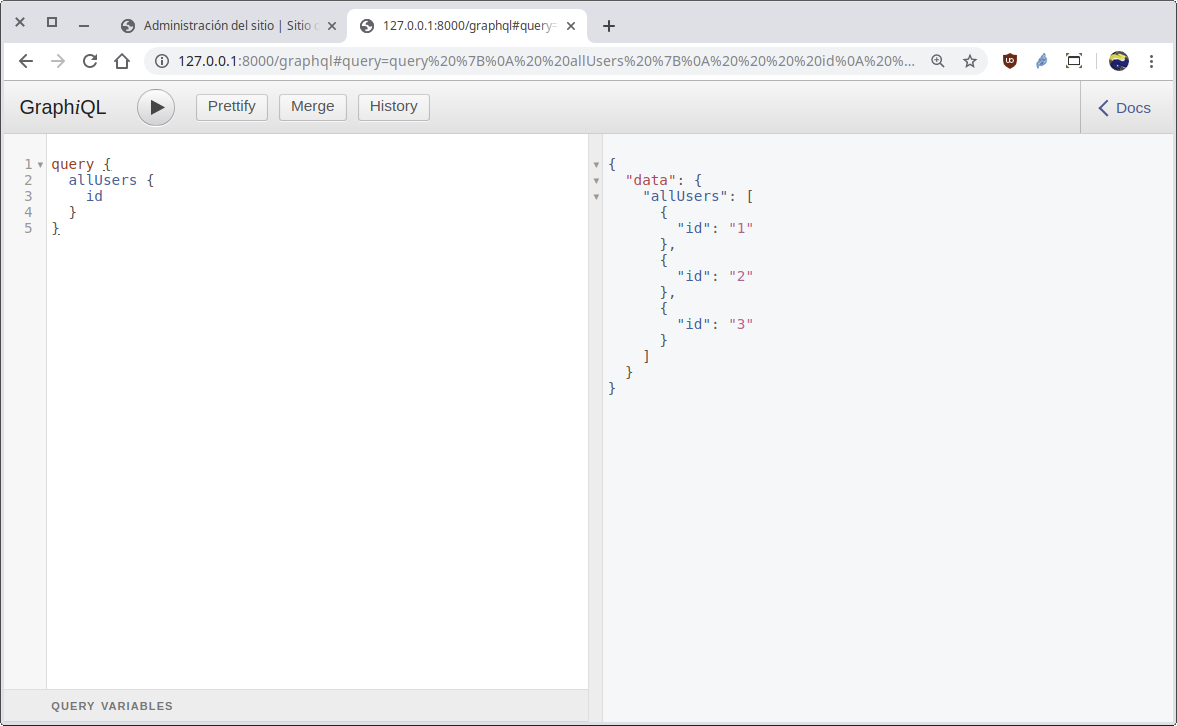
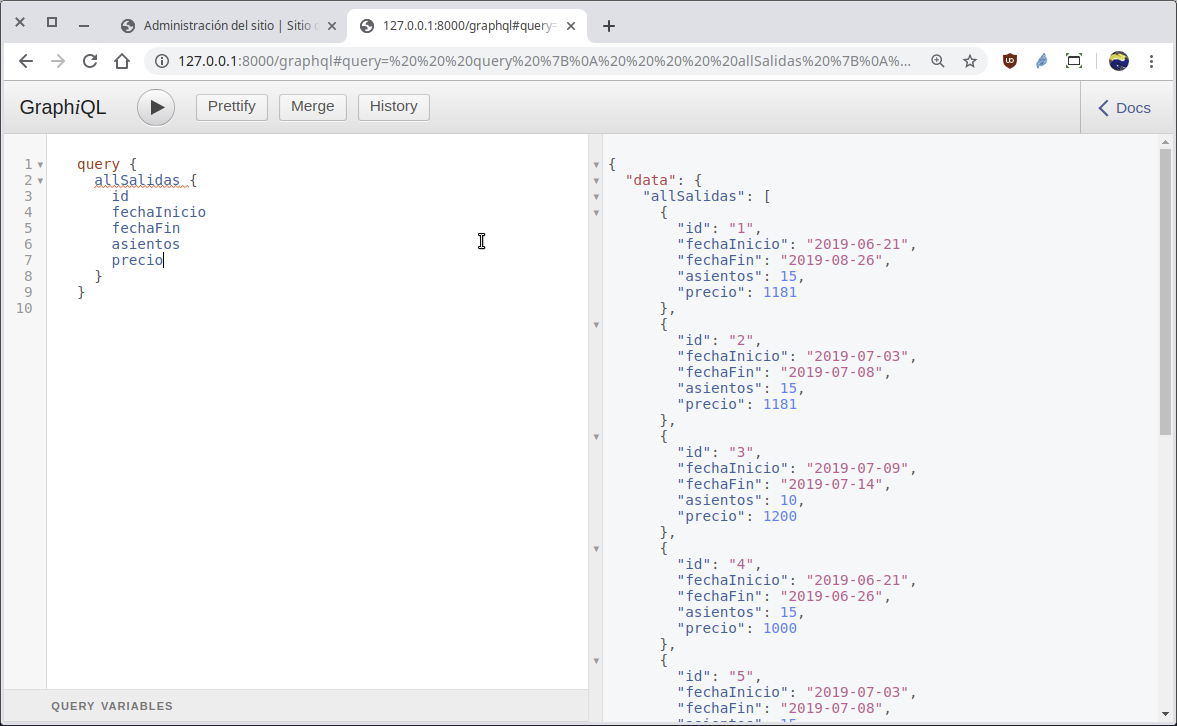
Se agrega descripción y archivos para Reto-02 en Sesion-07

diff --git a/Sesion-07/Reto-02/Bedutravels/tours/schema.py b/Sesion-07/Reto-02/Bedutravels/tours/schema.py
@@ -16,6 +16,18 @@ class ZonaType(DjangoObjectType):
         # Se relaciona con el origen de la data en models.Zona
         model = Zona
 
+class TourType(DjangoObjectType):
+    """ Tipo de dato para manejar el tipo Tour """
+    class Meta:
+        # Se relaciona con el origen de la data en models.Tour
+        model = Tour
+
+class SalidaType(DjangoObjectType):
+    """ Tipo de dato para manejar el tipo Salida """
+    class Meta:
+        # Se relaciona con el origen de la data en models.Salida
+        model = Salida
+
 
 class Query(graphene.ObjectType):
     """ Definición de las respuestas a las consultas posibles """
@@ -23,6 +35,8 @@ class Query(graphene.ObjectType):
     # Se definen los posibles campos en las consultas
     all_users = graphene.List(UserType)  # allUsers
     all_zonas = graphene.List(ZonaType)  # allZonas
+    all_tours = graphene.List(TourType)  # allTours
+    all_salidas = graphene.List(SalidaType)  # allSalidas
 
     # Se define las respuestas para cada campo definido
     def resolve_all_users(self, info, **kwargs):
@@ -32,6 +46,14 @@ class Query(graphene.ObjectType):
     def resolve_all_zonas(self, info, **kwargs):
         # Responde con la lista de todos registros
         return Zona.objects.all()
+
+    def resolve_all_tours(self, info, **kwargs):
+        # Responde con la lista de todos registros
+        return Tour.objects.all()
+
+    def resolve_all_salidas(self, info, **kwargs):
+        # Responde con la lista de todos registros
+        return Salida.objects.all()
 
 # Se crea un esquema que hace uso de la clase Query
 schema = graphene.Schema(query=Query)

diff --git a/Sesion-07/Reto-02/Bedutravels/tours/models.py b/Sesion-07/Reto-02/Bedutravels/tours/models.py
@@ -38,9 +38,9 @@ class Tour(models.Model):
     img = models.CharField(max_length=256, null=True, blank=True)
     pais = models.CharField(max_length=45)
     zonaSalida = models.ForeignKey(Zona, on_delete=models.SET_NULL, null=True,
-        blank=True, related_name="Tours_zonaSalida")
+        blank=True, related_name="tours_salida")
     zonaLlegada = models.ForeignKey(Zona, on_delete=models.SET_NULL, null=True,
-        blank=True, related_name="Tours_zonaLlegada")
+        blank=True, related_name="tours_llegada")
 
     def __str__(self):
         return "{}".format(self.nombre)
@@ -60,7 +60,7 @@ class Salida(models.Model):
     fechaFin = models.DateField()
     asientos = models.PositiveSmallIntegerField(null=True, blank=True)
     precio = models.DecimalField(max_digits=10, decimal_places=2)
-    tour = models.ForeignKey(Tour, on_delete=models.CASCADE)
+    tour = models.ForeignKey(Tour, related_name="salidas", on_delete=models.CASCADE)
 
     def __str__(self):
         return "{} ({}, {})".format(self.tour, self.fechaInicio, self.fechaFin)

diff --git a/Sesion-07/Reto-02/Readme.md b/Sesion-07/Reto-02/Readme.md
@@ -1,151 +1,205 @@
-`Fullstack con Python` > [`Backend con Python`](../../Readme.md) > [`Sesión 07`](../Readme.md) > Ejemplo-02
+[`Backend con Python`](../../Readme.md) > [`Sesión 07`](../Readme.md) > Reto-02
 ## Definiendo esquemas para crear un API GraphQL y realizar consultas de datos
 
 ### OBJETIVOS
-- Configurar __Django Graphene__
-- Definir la url única para el acceso a todo el __API GraphQL__
-- Integrar __Django Graphene__ en el proyecto
-- Definir el esquema para las consultas con __GraphQL__
-- Realizar operaciones de consulta vía __API GraphQL__
+- Definir el esquemas para modelos de Django
+- Realizar operaciones de consulta vía __API GraphQL__ a modelos simples
+- Realizar operaciones de consulta a modelos con relaciones
 
 ### REQUISITOS
 1. Actualizar repositorio
-1. Usar la carpeta de trabajo `Sesion-06/Ejemplo-02`
+1. Usar la carpeta de trabajo `Sesion-07/Reto-02`
 1. Activar el entorno virtual __Bedutravels__
 1. Diagrama de entidad-relación del proyecto Bedutravels
    ![Diagrama entidad-relación](assets/bedutravels-modelo-er.png)
-1. Carpeta de proyecto `Ejemplo-02/Bedutravels/` con los siguientes datos de acceso al admin de Django :
+1. Carpeta de proyecto `Reto-02/Bedutravels/` con los siguientes datos de acceso al admin de Django :
    - Usuario: bedutravels
    - Clave: bedutravels
 
 ### DESARROLLO
-1. Agregando Django Graphene a la configuración en el archivo `settings.py` como una aplicación adicional:
+1. Se crea la ruta para la url `/graphql` modificando el archivo `Bedutravels/tours/urls.py`.
 
-   ```python
-   INSTALLED_APPS = [
-       'django.contrib.admin',
-       'django.contrib.auth',
-       'django.contrib.contenttypes',
-       'django.contrib.sessions',
-       'django.contrib.messages',
-       'django.contrib.staticfiles',
-       'tours',
-       'graphene_django',
-   ]
-   ```
+   Debido a que GraphQL sólo necesita un punto de entrada, no es necesario estar creando o adicionando más rutas, así que puedes continuar.
    ***
 
-1. Se crea la ruta para la url `/graphql` modificando el archivo `Bedutravels/tours/urls.py`:
+1. Crear el esquema (schema) en el archivo `Bedutravels/tours/schema.py` para atender las consultas que obtiene la lista de todos los registros de los modelos __Tour__ y __Salidas__
+
+   Se necesitan los tipos __TourType__ y __SalidasType__:
 
    ```python
-   from django.urls import path
-   from graphene_django.views import GraphQLView
-
-   urlpatterns = [
-       path('graphql', GraphQLView.as_view(graphiql=True)),
-   ]
-   ```
-   ***
-
-1. Se crea el esquema (schema) en el archivo `Bedutravels/tours/schema.py` para atender las consultas que obtiene la lista de todos los registros de los modelos __User__ y __Zona__
-
-   ```python
-   import graphene
-
-   from graphene_django.types import DjangoObjectType
-   from .models import User, Zona, Tour, Opinion, Salida
-   ```
-   Cada campo que será usando en la consulta, se define mediante un tipo de dato por medio de una clase que hereda de __DjangoObjectType__ y además es la encargada de crear el vínculo con el modelo correspondiente.
-
-   A continuación se muestran la definición de los tipos __UserType__ y __ZonaType__.
-
-   ```python
-   class UserType(DjangoObjectType):
-       """ Tipo de dato para manejar el tipo User """
+   class TourType(DjangoObjectType):
+       """ Tipo de dato para manejar el tipo Tour """
        class Meta:
-           # Se relaciona con el origen de la data en models.User
-           model = User
+           # Se relaciona con el origen de la data en models.Tour
+           model = Tour
 
-   class ZonaType(DjangoObjectType):
-       """ Tipo de dato para manejar el tipo Zona """
+   class SalidaType(DjangoObjectType):
+       """ Tipo de dato para manejar el tipo Salida """
        class Meta:
-           # Se relaciona con el origen de la data en models.Zona
-           model = Zona
-   ```
-   Observar como en cada clase se vincula el modelo correspondiente.
-
-   Después se crea la clase que atenderá las consultas realizadas desde el API:
-
-   ```python
-   class Query(graphene.ObjectType):
-       """ Definición de las respuestas a las consultas posibles """
-
-       # Se definen los posibles campos en las consultas
-       all_users = graphene.List(UserType)  # allUsers
-       all_zonas = graphene.List(ZonaType)  # allZonas
-
-       # Se define las respuestas para cada campo definido
-       def resolve_all_users(self, info, **kwargs):
-           # Responde con la lista de todos registros
-           return User.objects.all()
-
-       def resolve_all_zonas(self, info, **kwargs):
-           # Responde con la lista de todos registros
-           return Zona.objects.all()
+           # Se relaciona con el origen de la data en models.Salida
+           model = Salida
    ```
 
-   Finalmente se crea la variable `schema` que define el esquema de los posibles campos y consultas.
+   Después se agregan las variables para cada tipo de campo nuevo y la función que atenderá las consultas:
 
    ```python
-   # Se crea un esquema que hace uso de la clase Query
-   schema = graphene.Schema(query=Query)   
+   # Se definen los posibles campos en las consultas
+   [...]
+   all_tours = graphene.List(TourType)  # allTours
+   all_salidas = graphene.List(SalidaType)  # allSalidas
+   [...]
+   def resolve_all_tours(self, info, **kwargs):
+       # Responde con la lista de todos registros
+       return Tour.objects.all()
+
+   def resolve_all_salidas(self, info, **kwargs):
+       # Responde con la lista de todos registros
+       return Salida.objects.all()
    ```
    ***
 
-1. Acceso y uso de la __API__ `/graphql`
+1. Acceso y uso de la __API__ `/graphql` a sólo una tabla
 
    __Para tener acceso al API abrir la siguiente url:__
 
    http://localhost:8000/graphql
 
-   Se deberá de observar algo similar a lo siguiente:
+   __Obteniendo la lista de todos los registros del modelo Tour:__
 
-   ![Bedutravels API GraphQL](assets/api-graphql-01.png)
-
-   __Obteniendo la lista de todos los registros del modelo User:__
-
-   Escribir la siquiente consulta (query) en formato __GraphQL__ en la región izquierda remplazando cualquier contenido existente:
+   Escribir la siquiente consulta en formato __GraphQL__ y ejecutar la consulta:
 
    ```json
    query {
-     allUsers {
+     allTours {
        id
+       nombre
+       operador
+       tipoDeTour
+       descripcion
+       img
+       pais
      }
    }   
    ```
-   luego dar click en el botón de reproducir (play), el resultado se mostrará en la región derecha similar al siguiente:
+   el resultado deberá ser similar al siguiente:
 
-   ![allUser id](assets/api-graphql-02.png)
-   Se puede observar como el resultado incluye los tres registros en el modelo __User__, pero sólo se ha obtenido el __id__, esto es porque en la consulta así se ha solicitado, entonces ahora se solicitará también el __nombre__ y el __genero__, se da click en reproducir (play) y se obtiene algo similar a:
+   ![allUser id](assets/api-graphql-01.png)
 
-   ![allUser id, nombre, genero](assets/api-graphql-03.png)
-
-   __Ahora también obteniendo la lista de todos los registros del modelo Zona con la siguiente consulta:__
+   __Obteniendo la lista de todos los registros del modelo Salida:__
 
    ```json
    query {
-     allUsers {
+     allSalidas {
        id
-       nombre
-       genero
+       fechaInicio
+       fechaFin
+       asientos
+       precio
      }
-     allZonas {
-       id
-       nombre
-     }
-   }
+   }   
    ```
    El resultado será similar a:
 
-   ![allUser, allZona](assets/api-graphql-04.png)
+   ![allUser, allZona](assets/api-graphql-02.png)
    ***
+
+1. Acceso y uso de la __API__ `/graphql` a tablas con relaciones
+
+   __El acceso al API sigue siendo el mismo:__
+
+   http://localhost:8000/graphql
+
+   __Obtener la lista de todas las salidas y su tour relacionado (ver diagrama del modelo-er):__
+
+   La consulta en GraphQL es:
+
+   ```json
+   query {
+     allSalidas {
+       id
+       fechaInicio
+       fechaFin
+       precio
+       asientos
+       tour {
+         id
+         nombre
+       }
+     }
+   }   
+   ```
+   El resultado deberá ser similar a:
+   ![Todas las salidas y su tour relacionado](assets/api-graphql-03.png)
+
+   __Obtener la lista de todos los tours y su lista de salidas relacionado:__
+
+   Para hacer esta consulta más simple, se recomienda realizar la siguiente modificación al archivo `Bedutravels/tours/models.py`:
+
+   ```python
+   class Salida(models.Model):
+       [...]
+       tour = models.ForeignKey(Tour, related_name="salidas", on_delete=models.CASCADE)
+   ```
+   Consiste en agregar el parámetro `related_name` que es como si se agregara un atributo al modelo __Tour__ quedando como `Tour.salidas` y nos permitirá mostrar todas las salidas para cada Tour.
+
+   La consulta en GraphQL es:
+
+   ```json
+   query {
+     allTours {
+       id
+       nombre
+       descripcion
+       operador
+       tipoDeTour
+       salidas {
+         id
+         fechaInicio
+         fechaFin
+         precio
+       }
+     }
+   }   
+   ```
+   El resultado deberá ser similar a:
+   ![Todos los tours y sus salidas disponibles](assets/api-graphql-04.png)
+
+   __Obtener la lista de todas las Zonas con todos los Tours de salida para cada zona y con todas las Salidas para cada Tour:__
+
+   Para hacer esta consulta más simple, se recomienda realizar la siguiente modificación al archivo `Bedutravels/tours/models.py`:
+
+   ```python
+   class Tour(models.Model):
+       [...]
+       zonaSalida = models.ForeignKey(Zona, on_delete=models.SET_NULL, null=True,
+           blank=True, related_name="tours_salida")
+       zonaLlegada = models.ForeignKey(Zona, on_delete=models.SET_NULL, null=True,
+           blank=True, related_name="tours_llegada")
+   ```
+   Consiste en modificar el parámetro `related_name` para que el acceso de los Tours desde las Zonas sea más simple.
+
+   La consulta en GraphQL es:
+
+   ```json
+   query {
+     allZonas {
+       id
+       nombre
+       toursSalida {
+         id
+         nombre
+         descripcion
+         operador
+         tipoDeTour
+         salidas {
+           id
+           fechaInicio
+           fechaFin
+           precio
+         }
+       }
+     }
+   }   
+   ```
+   El resultado deberá ser similar a:
+   ![Todas las zonas con sus tours y salidas disponibles](assets/api-graphql-05.png)
